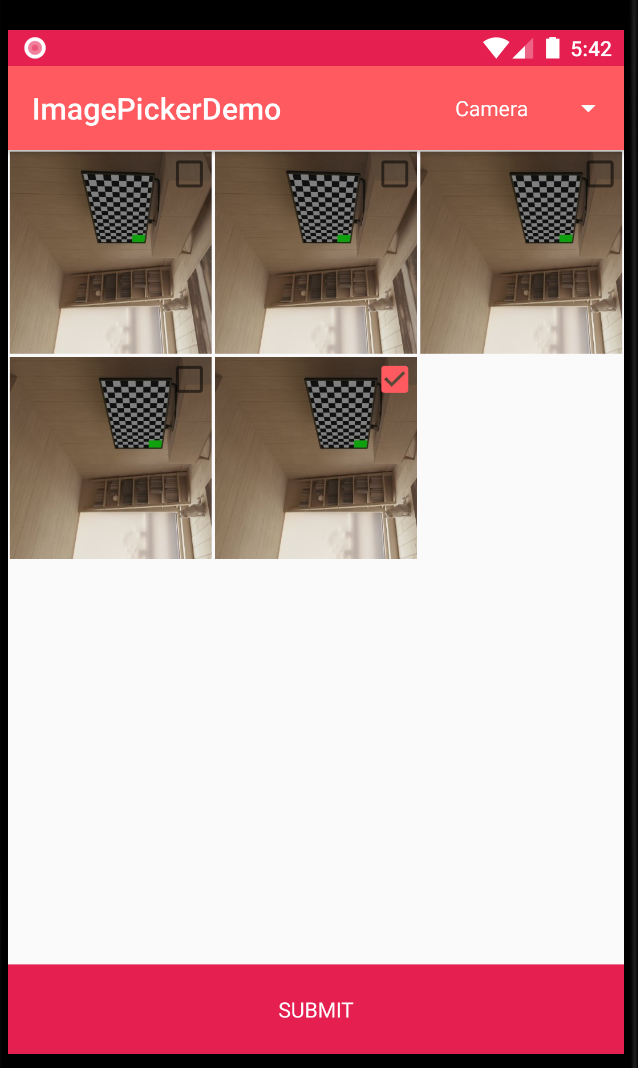
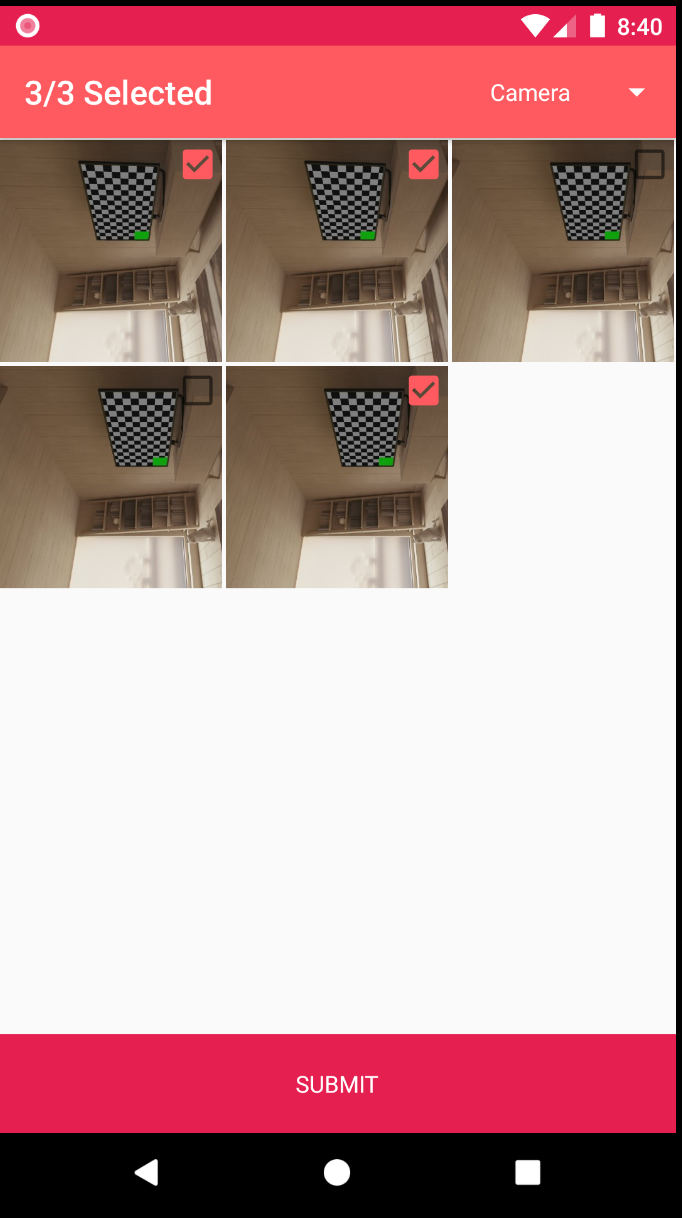
Fix actionBar bug

diff --git a/imagepicker/src/main/java/dev/wendyyanto/imagepicker/features/gallery/view/GalleryActivity.kt b/imagepicker/src/main/java/dev/wendyyanto/imagepicker/features/gallery/view/GalleryActivity.kt
@@ -5,7 +5,6 @@ import android.app.Activity
 import android.content.Intent
 import android.content.pm.PackageManager
 import android.os.Bundle
-import androidx.appcompat.app.ActionBar
 import androidx.appcompat.app.AppCompatActivity
 import android.view.*
 import android.widget.AdapterView
@@ -16,20 +15,19 @@ import androidx.core.content.ContextCompat
 import androidx.recyclerview.widget.GridLayoutManager
 import com.airbnb.paris.extensions.style
 import dev.wendyyanto.imagepicker.R
+import dev.wendyyanto.imagepicker.databinding.ActivityGalleryBinding
 import dev.wendyyanto.imagepicker.di.Injector
 import dev.wendyyanto.imagepicker.features.gallery.model.ImageGalleryUiModel
 import dev.wendyyanto.imagepicker.features.gallery.adapter.ImageGalleryAdapter
 import dev.wendyyanto.imagepicker.features.gallery.adapter.ImageGalleryToolBarAdapter
 import dev.wendyyanto.imagepicker.features.gallery.presenter.GalleryPresenter
 import dev.wendyyanto.imagepicker.features.gallery.presenter.GalleryPresenterImpl
-import dev.wendyyanto.imagepicker.databinding.ActivityGalleryBinding
 
 class GalleryActivity : AppCompatActivity(), GalleryView {
 
     private lateinit var activityGalleryBinding: ActivityGalleryBinding
     private lateinit var galleryPresenter: GalleryPresenter
     private lateinit var adapter: ImageGalleryAdapter
-    private var actionBar: ActionBar? = null
 
     private var categories: MutableList<String> = mutableListOf()
     private val chosenImages: ArrayList<String> = arrayListOf()
@@ -52,16 +50,10 @@ class GalleryActivity : AppCompatActivity(), GalleryView {
         setupTheme()
         maxCount = intent.getIntExtra(MAX_COUNT, 1)
         activityGalleryBinding = ActivityGalleryBinding.inflate(layoutInflater)
-        setContentView(activityGalleryBinding.root)
         setupButton()
         setupAdapter()
         initPresenter()
-        activityGalleryBinding.btSubmit.setOnClickListener {
-            val data = Intent()
-            data.putStringArrayListExtra(RESULT, chosenImages)
-            setResult(Activity.RESULT_OK, data)
-            finish()
-        }
+        setContentView(activityGalleryBinding.root)
     }
 
     private fun setupTheme() {
@@ -75,6 +67,12 @@ class GalleryActivity : AppCompatActivity(), GalleryView {
         val buttonStyle = intent.getIntExtra(SUBMIT_BUTTON_STYLE, -1)
         if (buttonStyle != -1) {
             activityGalleryBinding.btSubmit.style(buttonStyle)
+        }
+        activityGalleryBinding.btSubmit.setOnClickListener {
+            val data = Intent()
+            data.putStringArrayListExtra(RESULT, chosenImages)
+            setResult(Activity.RESULT_OK, data)
+            finish()
         }
     }
 
@@ -153,7 +151,7 @@ class GalleryActivity : AppCompatActivity(), GalleryView {
                 } else {
                     Toast.makeText(
                         this,
-                        "You Cannot Select More Than $maxCount",
+                        getString(R.string.warning_max_count, maxCount),
                         Toast.LENGTH_SHORT
                     ).show()
                     return false
@@ -167,7 +165,8 @@ class GalleryActivity : AppCompatActivity(), GalleryView {
     }
 
     private fun updateTitleBar() {
-        actionBar?.title = "${chosenImages.size}/$maxCount Selected"
+        val value = "${chosenImages.size}/$maxCount"
+        title = getString(R.string.chosen_image_counter, value)
     }
 
     private fun populateImages() {

diff --git a/app/src/main/java/com/wendy/imagepickerdemo/main/features/main/MainActivity.kt b/app/src/main/java/com/wendy/imagepickerdemo/main/features/main/MainActivity.kt
@@ -26,6 +26,7 @@ class MainActivity : AppCompatActivity() {
             intent.putExtra(GalleryActivity.SUBMIT_BUTTON_STYLE, R.style.MyButton)
             intent.putExtra(GalleryActivity.THEME, R.style.GalleryTheme)
             intent.putExtra(GalleryActivity.CATEGORY_DROPDOWN_ITEM_LAYOUT, R.layout.spinner_item)
+            intent.putExtra(GalleryActivity.MAX_COUNT, 3)
             startActivityForResult(intent, GALLERY_REQUEST_CODE)
         }
     }
